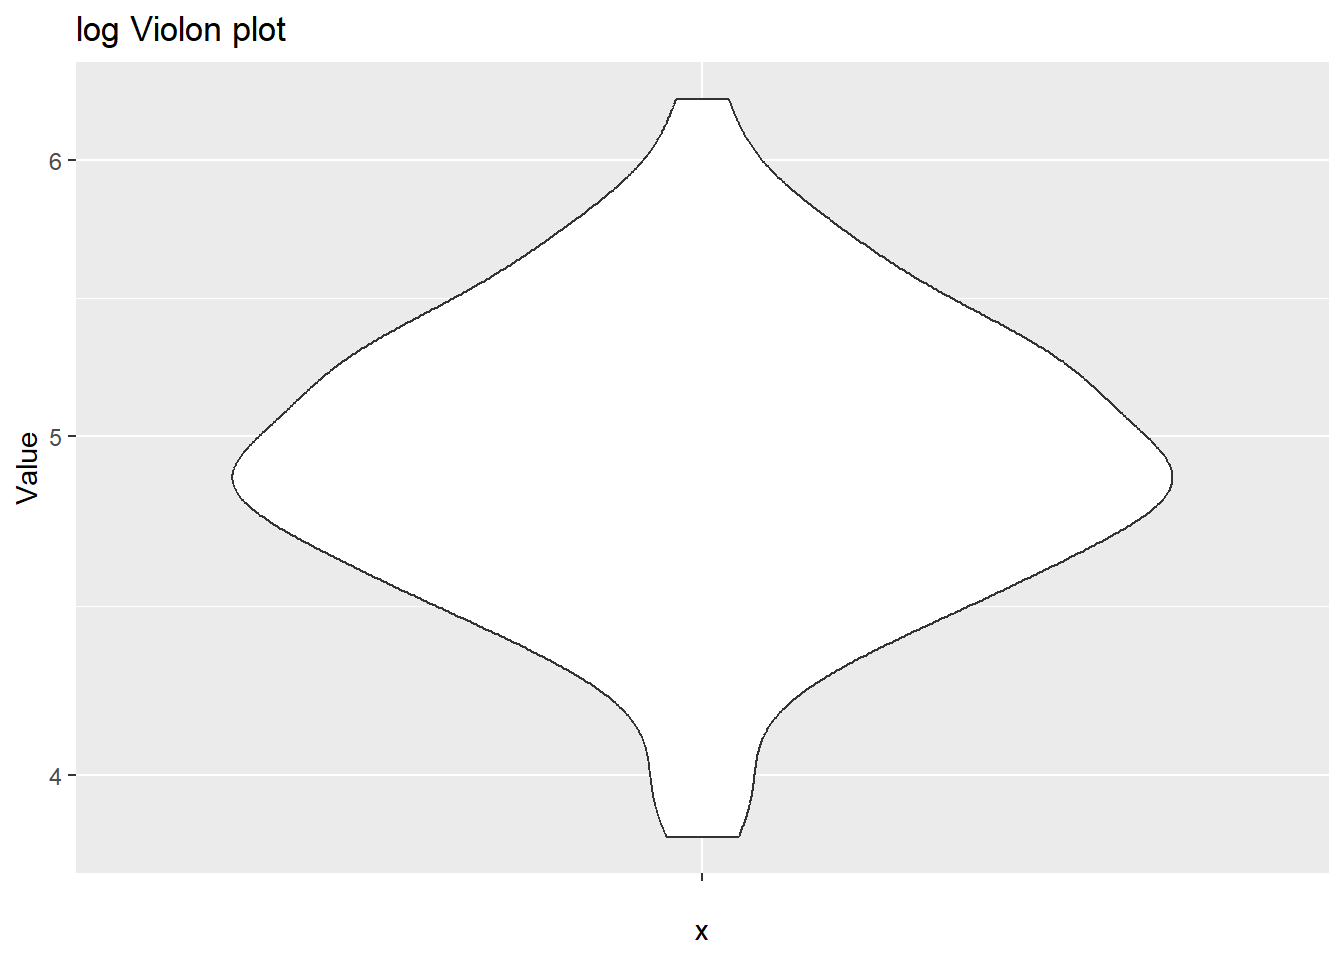
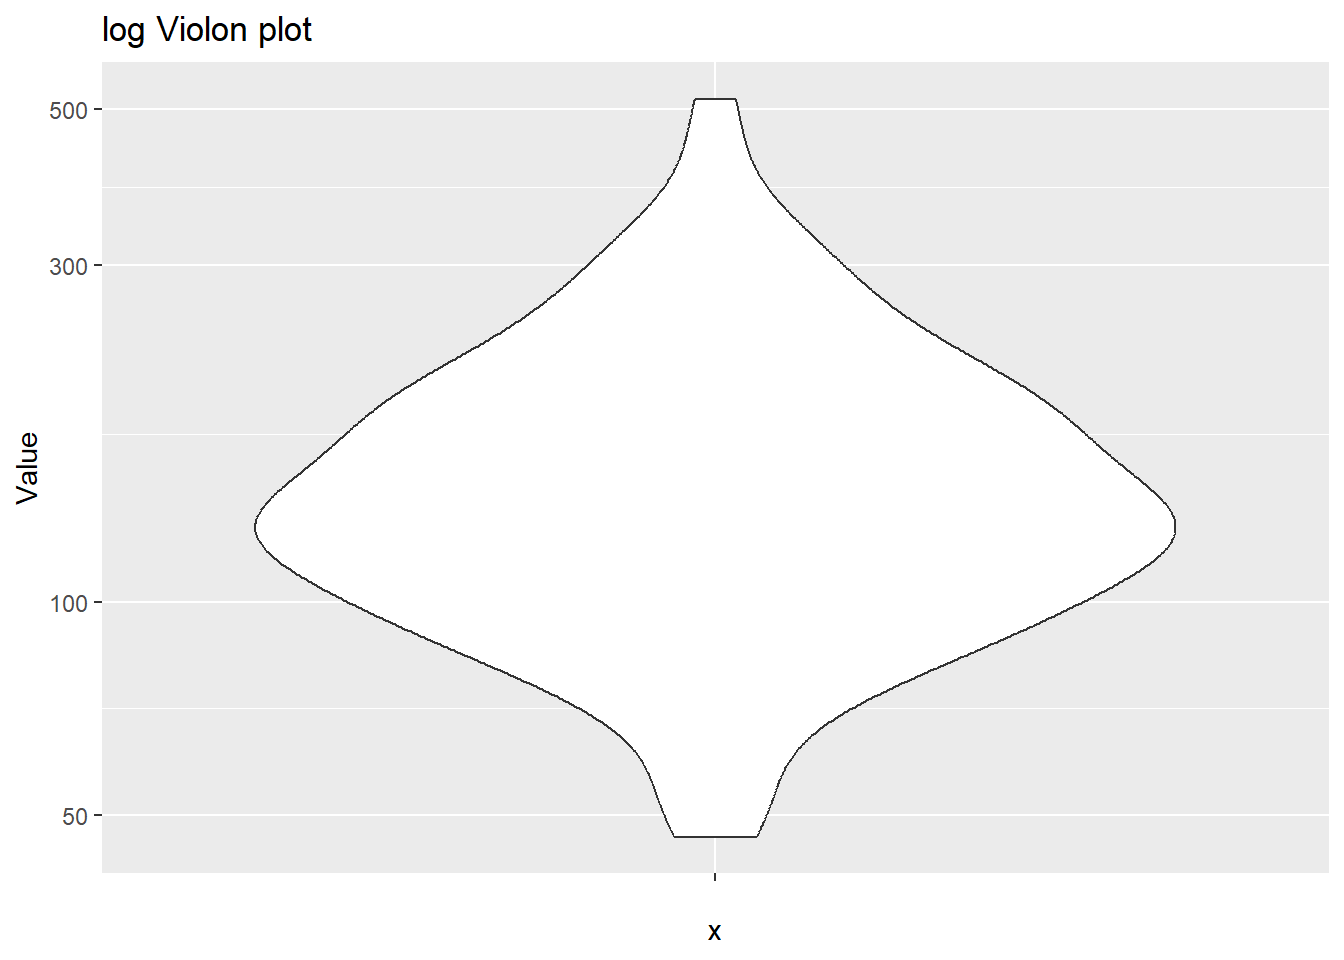
updated text

diff --git a/Ex1/quartoR.html b/Ex1/quartoR.html
@@ -173,7 +173,7 @@ pre > code.sourceCode > span > a:first-child::before { text-decoration: underlin
 <div class="cell-output-display">
 <p><img src="quartoR_files/figure-html/unnamed-chunk-4-1.png" class="img-fluid" width="672"></p>
 </div>
-<div class="sourceCode cell-code" id="cb10"><pre class="sourceCode r code-with-copy"><code class="sourceCode r"><span id="cb10-1"><a href="#cb10-1" aria-hidden="true" tabindex="-1"></a>log_violin <span class="ot">&lt;-</span> <span class="fu">ggplot</span>(df, <span class="fu">aes</span>(<span class="at">x =</span> <span class="st">""</span>, <span class="at">y =</span> <span class="fu">log</span>(samples))) <span class="sc">+</span> </span>
+<div class="sourceCode cell-code" id="cb10"><pre class="sourceCode r code-with-copy"><code class="sourceCode r"><span id="cb10-1"><a href="#cb10-1" aria-hidden="true" tabindex="-1"></a>log_violin <span class="ot">&lt;-</span> <span class="fu">ggplot</span>(df, <span class="fu">aes</span>(<span class="at">x =</span> <span class="st">""</span>, <span class="at">y =</span> samples)) <span class="sc">+</span> </span>
 <span id="cb10-2"><a href="#cb10-2" aria-hidden="true" tabindex="-1"></a>  <span class="fu">geom_violin</span>() <span class="sc">+</span> </span>
 <span id="cb10-3"><a href="#cb10-3" aria-hidden="true" tabindex="-1"></a>  <span class="fu">labs</span>(<span class="at">title =</span> <span class="st">"log Violon plot"</span>, <span class="at">y =</span> <span class="st">"Value"</span>)<span class="sc">+</span></span>
 <span id="cb10-4"><a href="#cb10-4" aria-hidden="true" tabindex="-1"></a>  <span class="fu">scale_y_log10</span>()</span>
